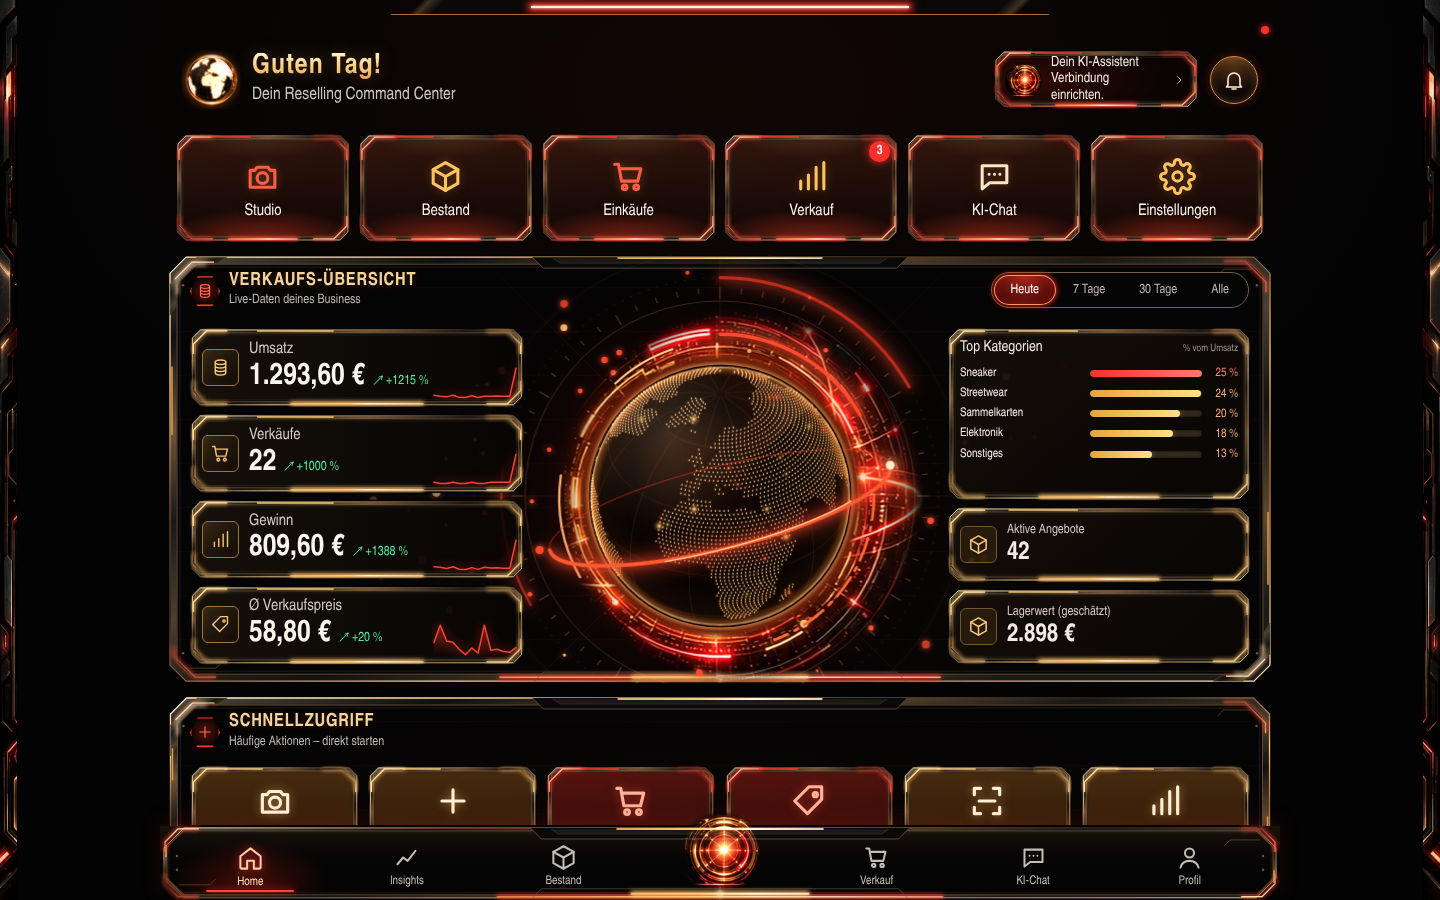
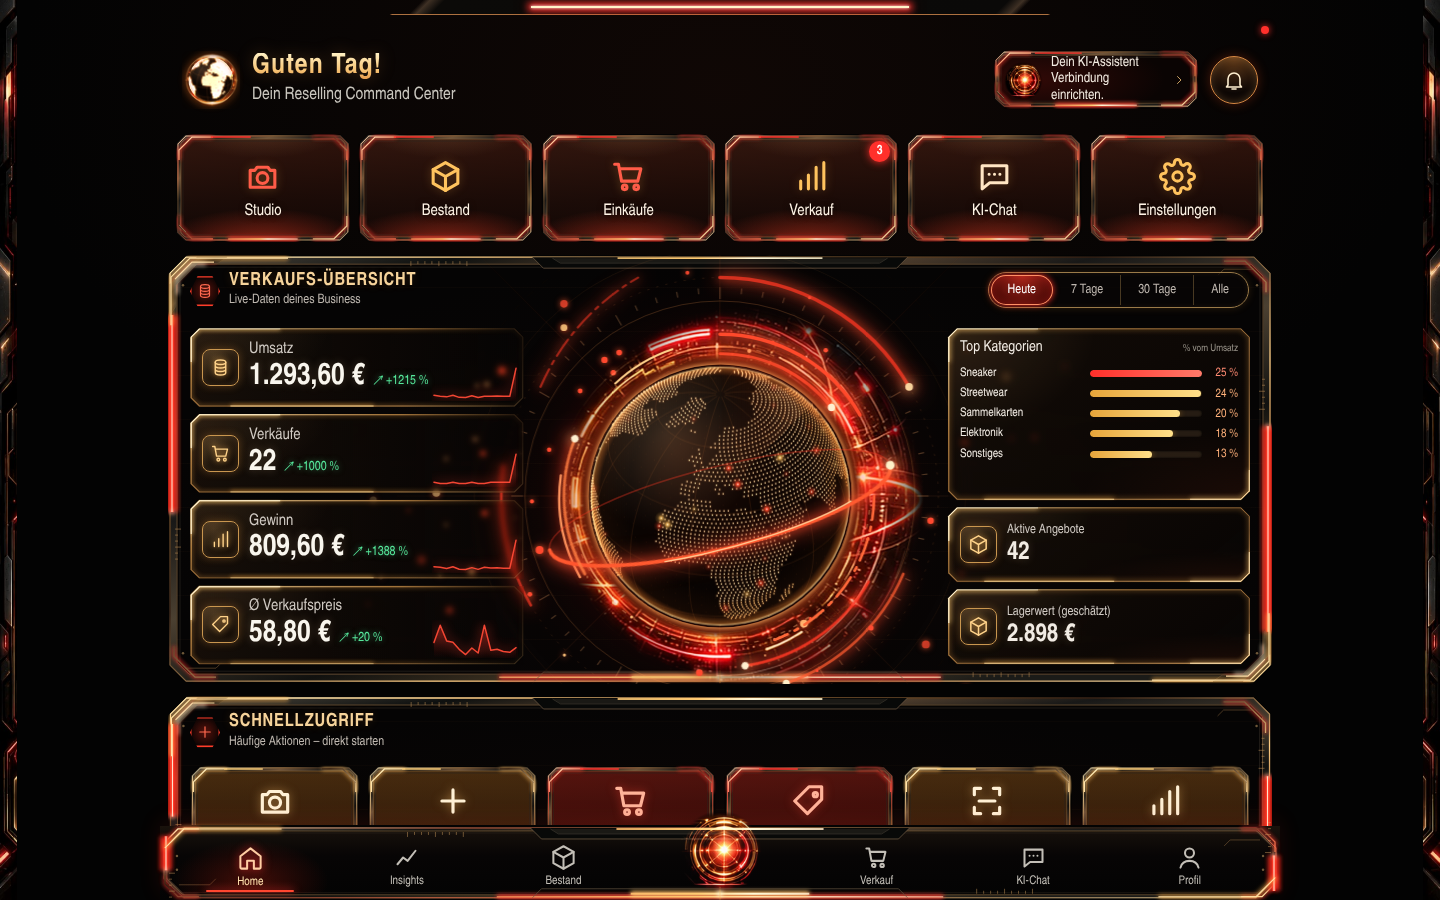
Verkaufs-Übersicht: Glasfelder und leuchtender Abschnittsrand
- Kennzahl-, Kategorie- und Lagerfelder durchscheinend (Glas mit leichter
  Unschärfe), Kennzahlen laufen nach rechts zum Globus hin aus
- Feiner goldener Leuchtrand statt schwerem Metallrahmen, hell glühende
  Ecke oben links und Lichtkante unten
- Symbolkästen und Werte mit sanftem Glow
- Zeitraum-Umschalter mit Trennstrichen und Goldrand
- Abschnittsrand: pulsierende rote Lichtstreifen links/rechts, glühende
  Goldecken, feine Skalenstriche

Claude-Session: https://claude.ai/code/session_0194bcZ5PbUBuV3hzmwdGD96

diff --git a/public/dashboard.js b/public/dashboard.js
@@ -282,13 +282,15 @@ if(document.readyState==='loading')document.addEventListener('DOMContentLoaded',
     const gold=el.classList.contains('gold')||el.classList.contains('v11-m')||el.classList.contains('v11-cat')||el.classList.contains('v11-s2')||el.classList.contains('v11-card')||el.parentElement.classList.contains('v11-prompts');
     const red=el.classList.contains('red')||el.classList.contains('v11-ai')||el.classList.contains('v11-ins');
     const id=svg.dataset.uid||(svg.dataset.uid='cc'+(++serial));
-    const signature=[width,height,panel,nav,gold,red].join(':');
+    const glass=el.classList.contains('v11-m')||el.classList.contains('v11-cat')||el.classList.contains('v11-s2');
+    const signature=[width,height,panel,nav,gold,red,glass].join(':');
     if(svg.dataset.size===signature)return;
     svg.dataset.size=signature;svg.setAttribute('viewBox',`0 0 ${width} ${height}`);
     const w=width,h=height,c=panel?18:nav?22:10;
     const color=gold?'#ffd795':red?'#ff5140':panel?'#ffce85':'#ff7650';
     const outline=(p,cut)=>`M ${p+cut} ${p} H ${w-p-cut} L ${w-p} ${p+cut} V ${h-p-cut} L ${w-p-cut} ${h-p} H ${p+cut} L ${p} ${h-p-cut} V ${p+cut} Z`;
     const path=(d,stroke,sw=1,extra='')=>`<path d="${d}" fill="none" stroke="${stroke}" stroke-width="${sw}" stroke-linejoin="miter" ${extra}/>`;
+    if(glass){svg.innerHTML=glassFrame(el,w,h,id);return}
     let markup=`<defs>
       <linearGradient id="${id}m" x1="0" y1="0" x2=".75" y2="1" gradientUnits="objectBoundingBox">
         <stop stop-color="#4c463c"/><stop offset=".12" stop-color="#0e100f"/><stop offset=".26" stop-color="#70543a"/><stop offset=".4" stop-color="#181817"/><stop offset=".55" stop-color="#4b4031"/><stop offset=".7" stop-color="#11110f"/><stop offset=".87" stop-color="#5d492e"/><stop offset="1" stop-color="#1b1b18"/>
@@ -334,6 +336,15 @@ if(document.readyState==='loading')document.addEventListener('DOMContentLoaded',
       markup+=path(`M ${mid-n*.58} 3 H ${mid+n*.58}`,`url(#${id}l)`,1.8);
       markup+=path(`M ${mid-n-9} ${h-2} L ${mid-n} ${h-11} H ${mid+n} L ${mid+n+9} ${h-2}`,'#635440',.7);
       markup+=path(`M 4 ${h*.26} V ${h*.42} M ${w-4} ${h*.60} V ${h*.77}`,red?'#ff342a':'#e09b4c',1.5);
+      // Rote Lichtstreifen an den Seiten, glühende Ecken und feine Skalen wie in der Referenz
+      const strips=`M 4 ${h*.14} V ${h*.6} M ${w-4} ${h*.4} V ${h*.88}`;
+      markup+=`<g class="cc-edge-strip">${path(strips,'#ff2a1e',12,`opacity=".85" filter="url(#${id}g)"`)}${path(strips,'#ff3b28',3.4)}${path(strips,'#ffe2cc',1.1)}</g>`;
+      const cg=`M 3 ${Math.min(70,h*.3)} V 22 L 22 3 H ${Math.min(120,w*.18)} M ${w-3} ${h-Math.min(70,h*.3)} V ${h-22} L ${w-22} ${h-3} H ${w-Math.min(120,w*.18)}`;
+      markup+=`<g class="cc-edge-corner">${path(cg,'#ffb04a',5,`opacity=".55" filter="url(#${id}g)"`)}${path(cg,'#ffe2a8',1.2)}</g>`;
+      let ticks='';for(let i=0;i<9;i++){const x=w*.22+i*7;ticks+=`M ${x} 6 V ${i%4?9:11} `;const x2=w*.78-i*7;ticks+=`M ${x2} ${h-6} V ${h-(i%4?9:11)} `}
+      for(let i=0;i<6;i++){const y=h*.64+i*6;ticks+=`M 7 ${y} H ${i%3?10:13} `;const y2=h*.36-i*6;ticks+=`M ${w-7} ${y2} H ${w-(i%3?10:13)} `}
+      markup+=path(ticks,'#c99a5c',.7,'opacity=".7"');
+      markup+=`<circle cx="4" cy="${h*.6}" r="2" fill="#ffd2b0" filter="url(#${id}g)"/><circle cx="${w-4}" cy="${h*.4}" r="2" fill="#ffd2b0" filter="url(#${id}g)"/>`;
       for(const x of [15,w-15])for(const y of [30,h-30])markup+=`<circle cx="${x}" cy="${y}" r="1.25" fill="#c49c64" opacity=".55"/>`;
       // Small circuitry marks carry depth without competing with the content.
       markup+=path(`M 17 ${h-15} H 48 L 54 ${h-21} M ${w-54} 20 L ${w-48} 14 H ${w-18}`,'#785b38',.6);
@@ -342,6 +353,25 @@ if(document.readyState==='loading')document.addEventListener('DOMContentLoaded',
       markup+=path(`M 3 ${h-17} L 10 ${h-10} M ${w-3} 17 L ${w-10} 10`,'#927656',.8);
     }
     svg.innerHTML=markup;
+  }
+  // Glasfelder: feiner, leuchtender Goldrand statt Metallrahmen; Kennzahlen laufen nach rechts aus.
+  function glassFrame(el,w,h,id){
+    const fade=el.classList.contains('v11-m'),c=9;
+    const o=`M ${c} .75 H ${w-c} L ${w-.75} ${c} V ${h-c} L ${w-c} ${h-.75} H ${c} L .75 ${h-c} V ${c} Z`;
+    let m=`<defs>
+      <linearGradient id="${id}ge" x1="0" y1="0" x2="1" y2="1"><stop stop-color="#ffe7b0"/><stop offset=".3" stop-color="#c8904a"/><stop offset=".65" stop-color="#7a5430"/><stop offset="1" stop-color="#e8b26a"/></linearGradient>
+      <filter id="${id}gg" filterUnits="userSpaceOnUse" x="-20" y="-20" width="${w+40}" height="${h+40}"><feGaussianBlur stdDeviation="2.4"/></filter>`;
+    if(fade)m+=`<linearGradient id="${id}fm" x1="0" y1="0" x2="1" y2="0"><stop stop-color="#fff"/><stop offset=".62" stop-color="#fff"/><stop offset="1" stop-color="#fff" stop-opacity=".08"/></linearGradient><mask id="${id}mk" maskUnits="userSpaceOnUse" x="-20" y="-20" width="${w+40}" height="${h+40}"><rect x="-20" y="-20" width="${w+40}" height="${h+40}" fill="url(#${id}fm)"/></mask>`;
+    m+=`</defs><g ${fade?`mask="url(#${id}mk)"`:''}>`;
+    m+=`<path d="${o}" fill="none" stroke="#ffae4a" stroke-width="3.5" opacity=".28" filter="url(#${id}gg)"/>`;
+    m+=`<path d="${o}" fill="none" stroke="url(#${id}ge)" stroke-width="1.1"/>`;
+    m+=`<path d="M 3.5 ${c+3} V ${c} L ${c} 3.5" fill="none" stroke="#3a2a1a" stroke-width=".6"/>`;
+    const tl=`M .75 ${Math.min(h*.6,34)} V ${c} L ${c} .75 H ${Math.min(w*.4,90)}`;
+    m+=`<path d="${tl}" fill="none" stroke="#ffcf7a" stroke-width="3" opacity=".7" filter="url(#${id}gg)"/><path d="${tl}" fill="none" stroke="#fff3d2" stroke-width="1.1"/>`;
+    const bt=`M ${w*.12} ${h-.75} H ${w*.55}`;
+    m+=`<path d="${bt}" fill="none" stroke="#ffb04a" stroke-width="3" opacity=".55" filter="url(#${id}gg)"/><path d="${bt}" fill="none" stroke="#ffe0a0" stroke-width=".9" opacity=".9"/>`;
+    if(!fade){const br=`M ${w-.75} ${h-Math.min(h*.5,30)} V ${h-c} L ${w-c} ${h-.75} H ${w-Math.min(w*.3,60)}`;m+=`<path d="${br}" fill="none" stroke="#ffcf7a" stroke-width="3" opacity=".5" filter="url(#${id}gg)"/><path d="${br}" fill="none" stroke="#ffe7b8" stroke-width=".9"/>`}
+    return m+`</g>`;
   }
   const resize='ResizeObserver' in window?new ResizeObserver(entries=>entries.forEach(e=>draw(e.target))):null;
   function refresh(){

diff --git a/public/ref.css b/public/ref.css
@@ -54,3 +54,32 @@ body:has(#home:not(.hidden)) .v11-ai .rv-crafted-chat #homeAiSend svg { stroke:n
   .v11-prompts { gap:7px 8px; }
   .v11-prompts button { font-size:12px; min-height:32px; padding:5px 12px 5px 10px; gap:7px; }
 }
+
+/* Verkaufs-Übersicht: Glasfelder wie in der Referenz – durchscheinend, mit Leuchtrand */
+.v11-m.v11-hud, .v11-s2.v11-hud, .v11-cat.v11-hud { --cut:9px; }
+.v11-m { background:
+    radial-gradient(ellipse 60% 120% at 0% 0%, rgba(255,190,110,.10), transparent 70%),
+    linear-gradient(90deg, rgba(26,17,10,.78) 0%, rgba(16,10,6,.55) 55%, rgba(10,6,4,.12) 100%);
+  -webkit-backdrop-filter: blur(2.5px) saturate(1.2); backdrop-filter: blur(2.5px) saturate(1.2); }
+.v11-cat, .v11-s2 { background:
+    radial-gradient(ellipse 70% 90% at 0% 0%, rgba(255,190,110,.12), transparent 70%),
+    radial-gradient(ellipse 80% 60% at 100% 100%, rgba(255,90,40,.08), transparent 70%),
+    linear-gradient(140deg, rgba(28,18,10,.62), rgba(10,6,4,.48));
+  -webkit-backdrop-filter: blur(3px) saturate(1.2); backdrop-filter: blur(3px) saturate(1.2); }
+.v11-m .mi, .v11-s2 .mi { border:1px solid #c9964f; border-radius:8px;
+  background: radial-gradient(circle at 30% 20%, rgba(255,200,120,.18), rgba(20,12,6,.6) 70%);
+  box-shadow: 0 0 8px rgba(255,170,70,.28), inset 0 0 8px rgba(255,190,110,.18);
+  color:#ffd38a; }
+.v11-m .mi .v11-ico, .v11-s2 .mi .v11-ico { filter: drop-shadow(0 0 3px rgba(255,180,80,.85)); }
+.v11-m .val, .v11-s2 .val { text-shadow: 0 0 10px rgba(255,220,170,.22); }
+.v11-m .dl:not(.nil):not(.neg) { text-shadow: 0 0 6px rgba(86,231,155,.55); }
+.v11-cat .tr { background: rgba(60,48,32,.55); }
+/* Zeitraum-Umschalter mit Trennstrichen und Goldrand */
+.v11-seg { border-color:#9a7a48; background:rgba(8,6,5,.7); box-shadow: 0 0 8px rgba(255,170,70,.15), inset 0 0 6px rgba(255,190,110,.08); }
+.v11-seg button + button { border-left:1px solid rgba(154,122,72,.45); border-radius:0; }
+.v11-seg button[aria-pressed='true'] + button, .v11-seg button[aria-pressed='true'] { border-left-color:transparent; border-radius:100px; }
+/* Abschnittsrand: Lichtstreifen pulsieren sanft */
+.cc-edge-strip { animation: cc-strip 4.5s ease-in-out infinite; }
+.cc-edge-corner { animation: cc-strip 6s ease-in-out infinite reverse; }
+@keyframes cc-strip { 0%,100% { opacity:.7; } 50% { opacity:1; } }
+@media (prefers-reduced-motion: reduce) { .cc-edge-strip, .cc-edge-corner { animation:none; } }

diff --git a/public/sw.js b/public/sw.js
@@ -1,4 +1,4 @@
-const CACHE='rv-studio-v18-reference-4';
+const CACHE='rv-studio-v18-reference-5';
 const FILES=['/','/index.html','/app.css','/dashboard.css','/fx.css','/ref.css','/app.js','/dashboard.js','/fx.js',
   '/vendor/jszip.min.js','/fonts/command-sans-regular.otf','/fonts/command-sans-bold.otf',
   '/rv-logo.jpg','/rv-ai-mascot.png','/rv-robot-premium.png','/rv-white.png',
